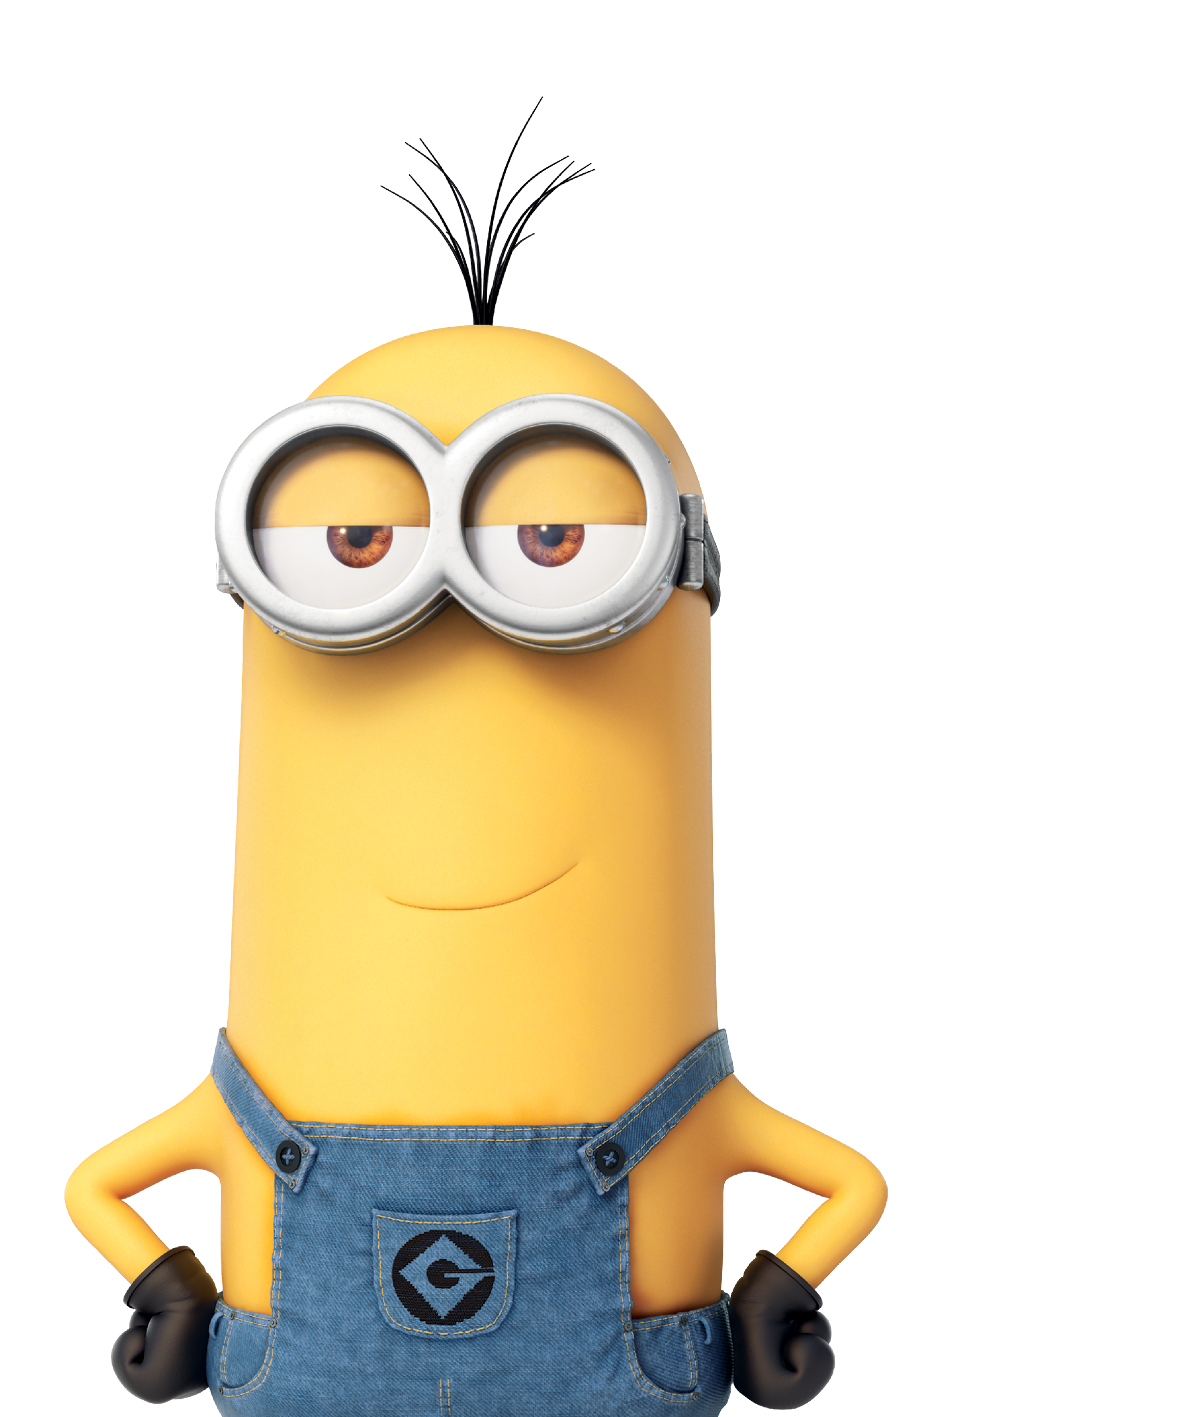
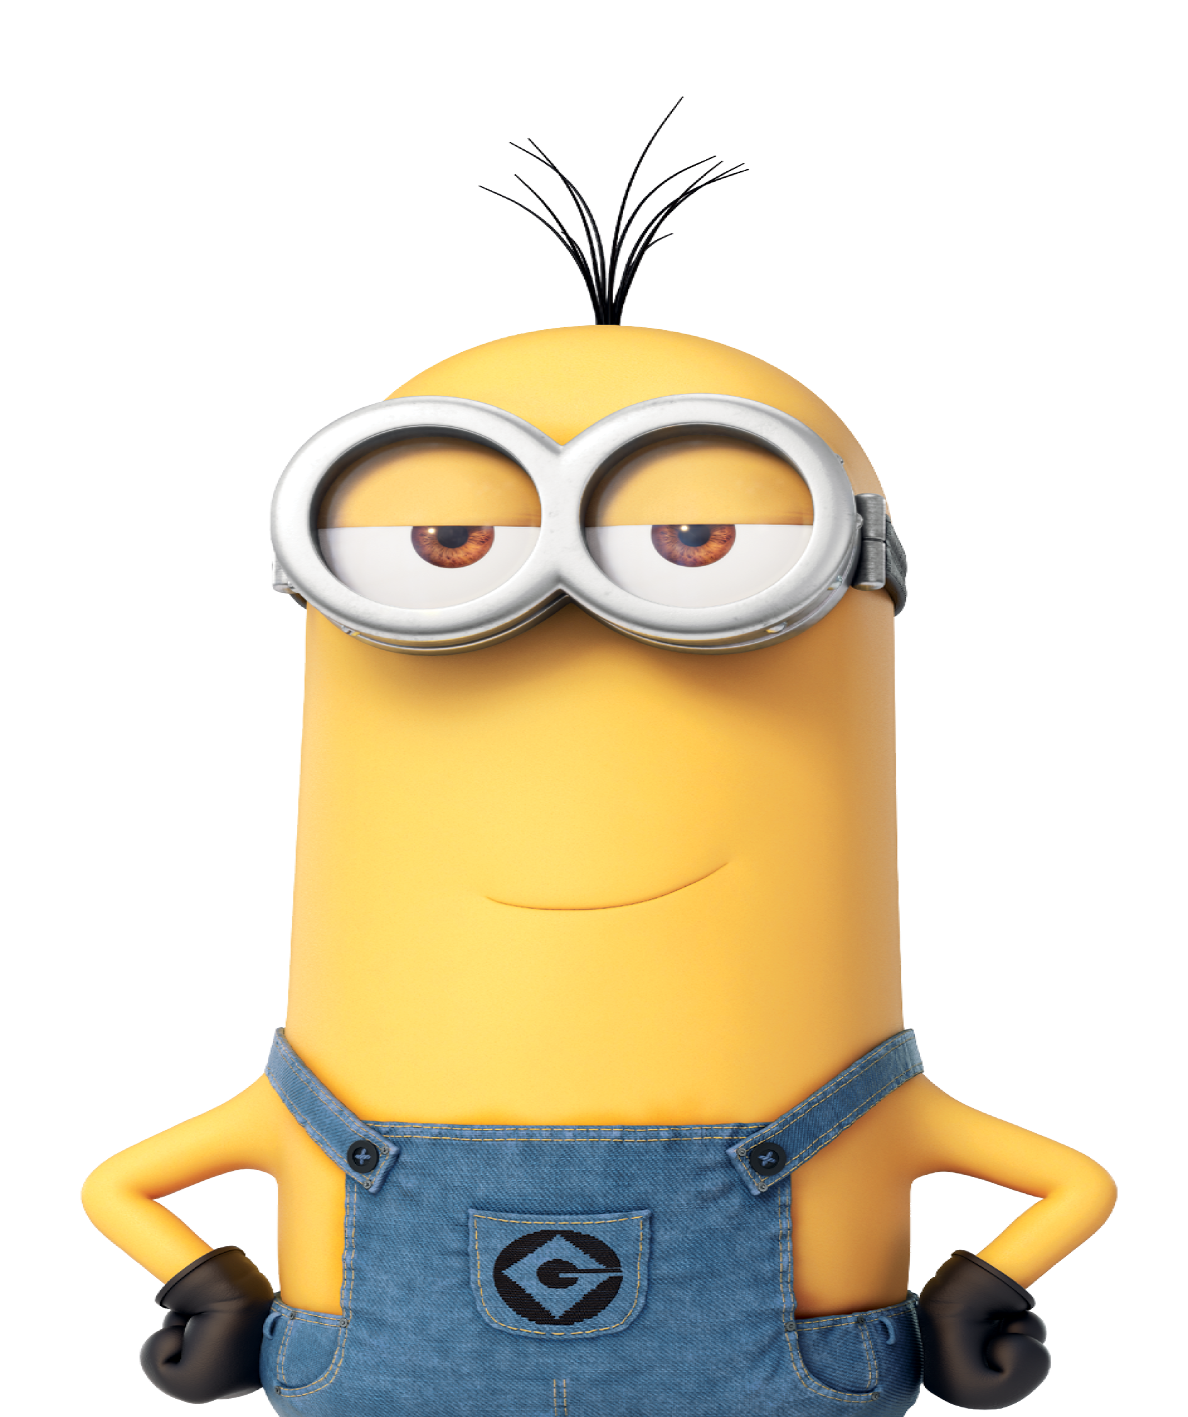
fixed: images and margins/padding

diff --git a/index.html b/index.html
@@ -73,7 +73,7 @@
 				</header>
 
 				<div class="wrapper style2">
-					<img src="images/430488.jpg" alt="" />
+					<img src="images/430488.jpg" class="image featured" />
 					<footer>
 						Our amazing leader, Gru Wilde
 					</footer>
@@ -93,7 +93,7 @@
 			<section class="carousel">
 				<div class="reel">
 					<article>
-						<img src="images/Freeze_Ray_model.png" alt="" />
+						<img src="images/Freeze_Ray_model.png" class="image featured" />
 						<header>
 							<h3>
 								Freeze Ray
@@ -105,7 +105,7 @@
 					</article>
 
 					<article>
-						<img src="images/Download_29.png" alt="" />
+						<img src="images/Download_29.png" class="image featured" />
 						<header>
 							<h3>
 								SR-6
@@ -117,7 +117,7 @@
 					</article>
 
 					<article>
-						<img src="images/fart_gun.jpg" alt="" />
+						<img src="images/fart_gun.jpg" class="image featured" />
 						<header>
 							<h3>
 								Fart Gun
@@ -129,7 +129,7 @@
 					</article>
 
 					<article>
-						<img src="images/unicorn.jpg" alt="" />
+						<img src="images/unicorn.jpg" class="image featured" />
 						<header>
 							<h3>Pink Fluffy Unicorn</h3>
 						</header>
@@ -156,7 +156,7 @@
 					</header>
 
 					<div style="margin:auto; width:400px;">
-						<img src="images/banana.png" alt="" />
+						<img src="images/banana.png" class="image featured" />
 					</div>
 
 					<footer>
@@ -186,7 +186,7 @@
 					</header>
 					<div class="row">
 						<article class="col-4 col-12-mobile special">
-							<img src="images/Minions_Kevin2.png" alt="" />
+							<img src="images/Minions_Kevin2.png" class="image featured"/>
 							<header>
 								<h3>
 									Kevin
@@ -197,7 +197,7 @@
 							</p>
 						</article>
 						<article class="col-4 col-12-mobile special">
-							<img src="images/SHM_PRINTS_P1880.png" alt="" />
+							<img src="images/SHM_PRINTS_P1880.png" class="image featured" />
 							<header>
 								<h3>
 									Stuart
@@ -208,7 +208,7 @@
 							</p>
 						</article>
 						<article class="col-4 col-12-mobile special">
-							<img src="images/Minions_KingBob.png" alt="" />
+							<img src="images/Minions_KingBob.png" class="image featured" />
 							<header>
 								<h3>
 									Bob (the new king!)

diff --git a/assets/css/main.css b/assets/css/main.css
@@ -1801,6 +1801,7 @@ input, select, textarea {
 			display: block;
 			width: 100%;
 			margin: 0 0 4em 0;
+			padding: 0 3em 0 3em;
 		}
 
 		.image.left {
@@ -2171,7 +2172,7 @@ input, select, textarea {
 	.wrapper {
 		background: #fff;
 		margin: 0 0 0 0;
-		padding: 6em 0 2em 0;
+		padding: 2em 2em 2em 2em;
 	}
 
 		.wrapper.style2 {

diff --git a/references.html b/references.html
@@ -229,12 +229,6 @@
 	<script src="assets/js/util.js"></script>
 	<script src="assets/js/main.js"></script>
 
-	<style>
-		.refcontent {
-			margin-left: 25px;
-			margin-right: 25px;
-		  }
-	</style>
 
 	</body>
 </html>
